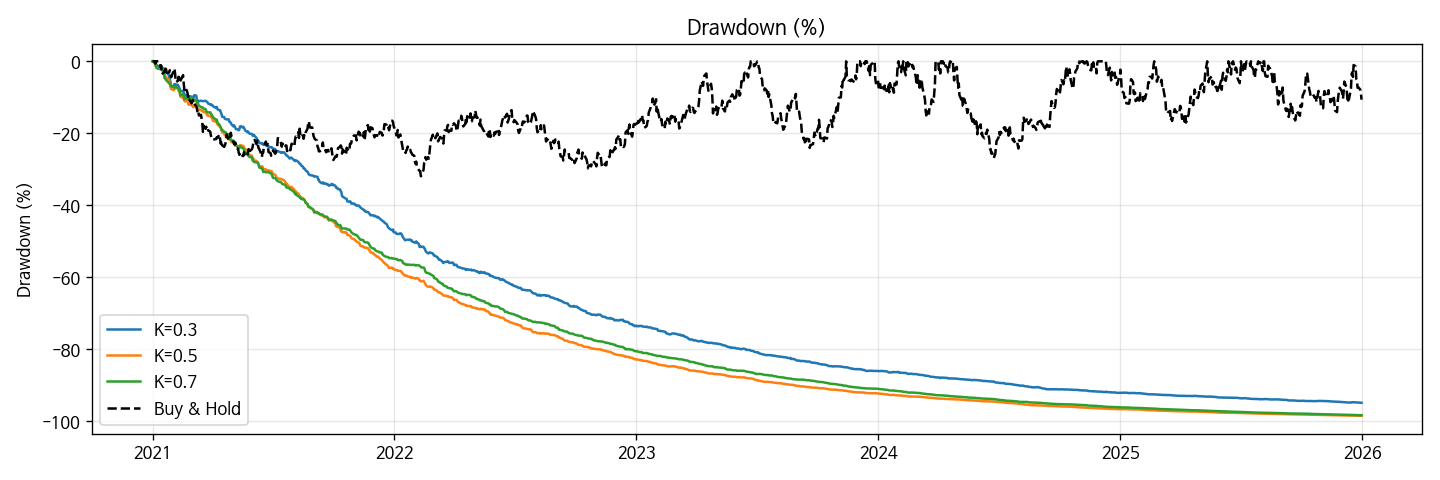
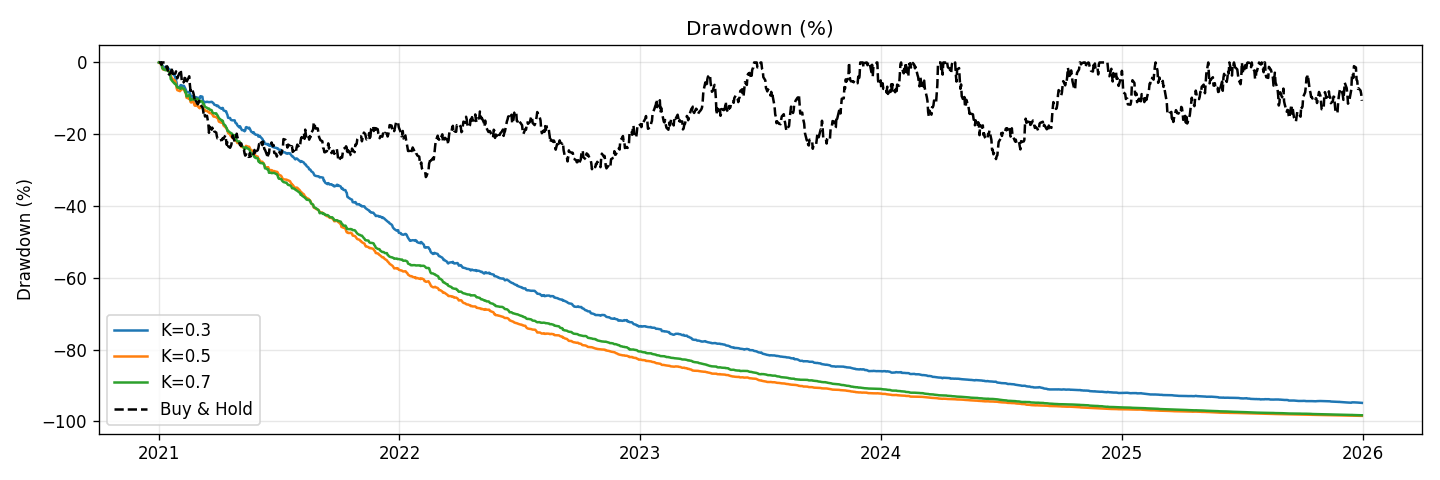
Use adjusted prices and clip anomalous daily returns
- pykrx fetch에 adjusted=True 추가하여 액면분할/배당 보정된 수정주가 사용
  (카카오 2021-04 5:1 분할로 인해 inf 수익률 발생하던 문제 해결)
- 이상치 방어: 0/음수/NaN 가격 행은 거래에서 제외, 단일일 수익률 ±50%로 클립
  inf/-inf는 0으로 치환

https://claude.ai/code/session_01TvzMHyqGmkrN4QV4tk95NB

diff --git a/volatility_breakout.py b/volatility_breakout.py
@@ -49,7 +49,11 @@ def fetch_pykrx(ticker: str, start: str, end: str) -> pd.DataFrame:
 
     s = start.replace("-", "")
     e = end.replace("-", "")
-    df = stock.get_market_ohlcv_by_date(s, e, ticker)
+    # adjusted=True: 액면분할/유상증자/배당 등이 반영된 수정주가
+    try:
+        df = stock.get_market_ohlcv_by_date(s, e, ticker, adjusted=True)
+    except TypeError:
+        df = stock.get_market_ohlcv_by_date(s, e, ticker)
     if df is None or df.empty:
         raise RuntimeError(f"pykrx returned no data for {ticker}")
     df = df.rename(
@@ -122,11 +126,19 @@ def run_breakout(df: pd.DataFrame, k: float, capital: float) -> dict:
     실효 진입가/청산가를 계산한 뒤 일별 수익률로 변환한다.
     """
     target, triggered = breakout_signals(df, k)
+    # 가격 데이터 이상치(0/음수/NaN) 방어 — 거래 자체에서 제외
+    valid_prices = (target > 0) & (df["close"] > 0) & target.notna() & df["close"].notna()
+    triggered = triggered & valid_prices
+
     eff_entry = target * (1 + SLIPPAGE) * (1 + BUY_COST)
     eff_exit = df["close"] * (1 - SLIPPAGE) * (1 - SELL_COST)
 
     daily_ret = pd.Series(0.0, index=df.index)
-    daily_ret.loc[triggered] = (eff_exit[triggered] / eff_entry[triggered]) - 1.0
+    raw = (eff_exit[triggered] / eff_entry[triggered]) - 1.0
+    # 비정상적 단일일 수익률(액면분할 잔재 등) 캡: ±50%
+    raw = raw.clip(lower=-0.5, upper=0.5)
+    raw = raw.replace([np.inf, -np.inf], 0.0).fillna(0.0)
+    daily_ret.loc[triggered] = raw
 
     equity = capital * (1 + daily_ret).cumprod()
 
